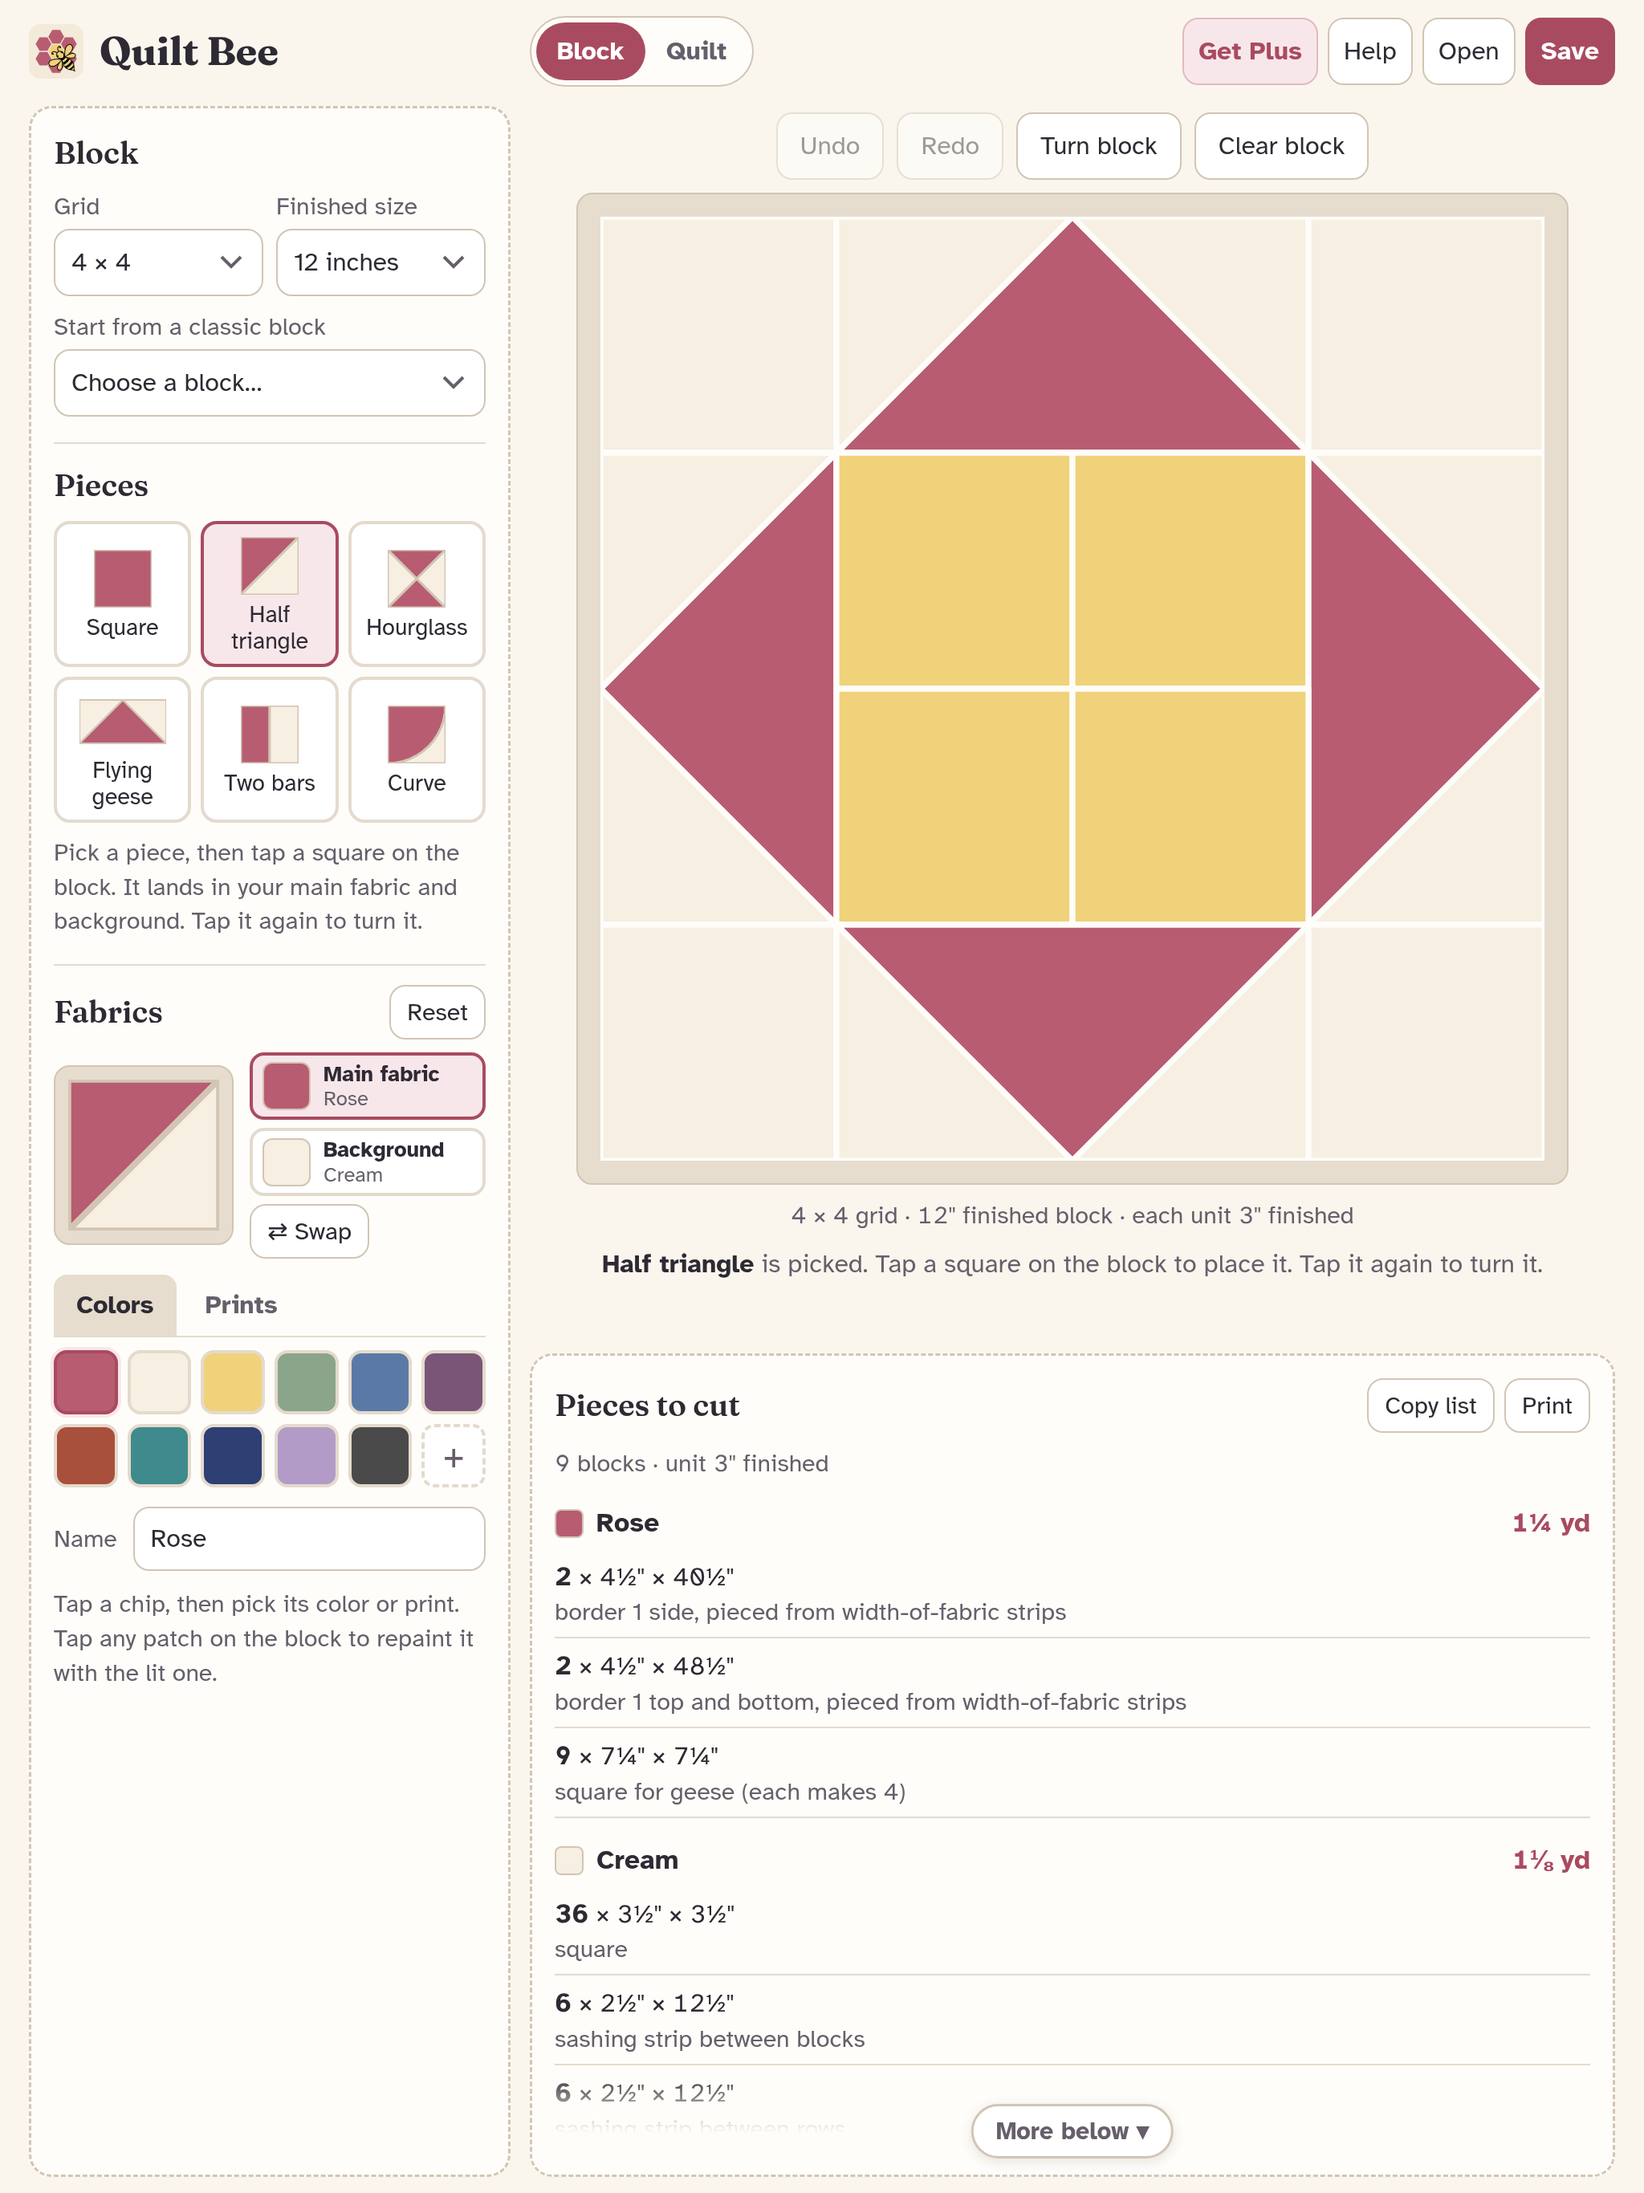
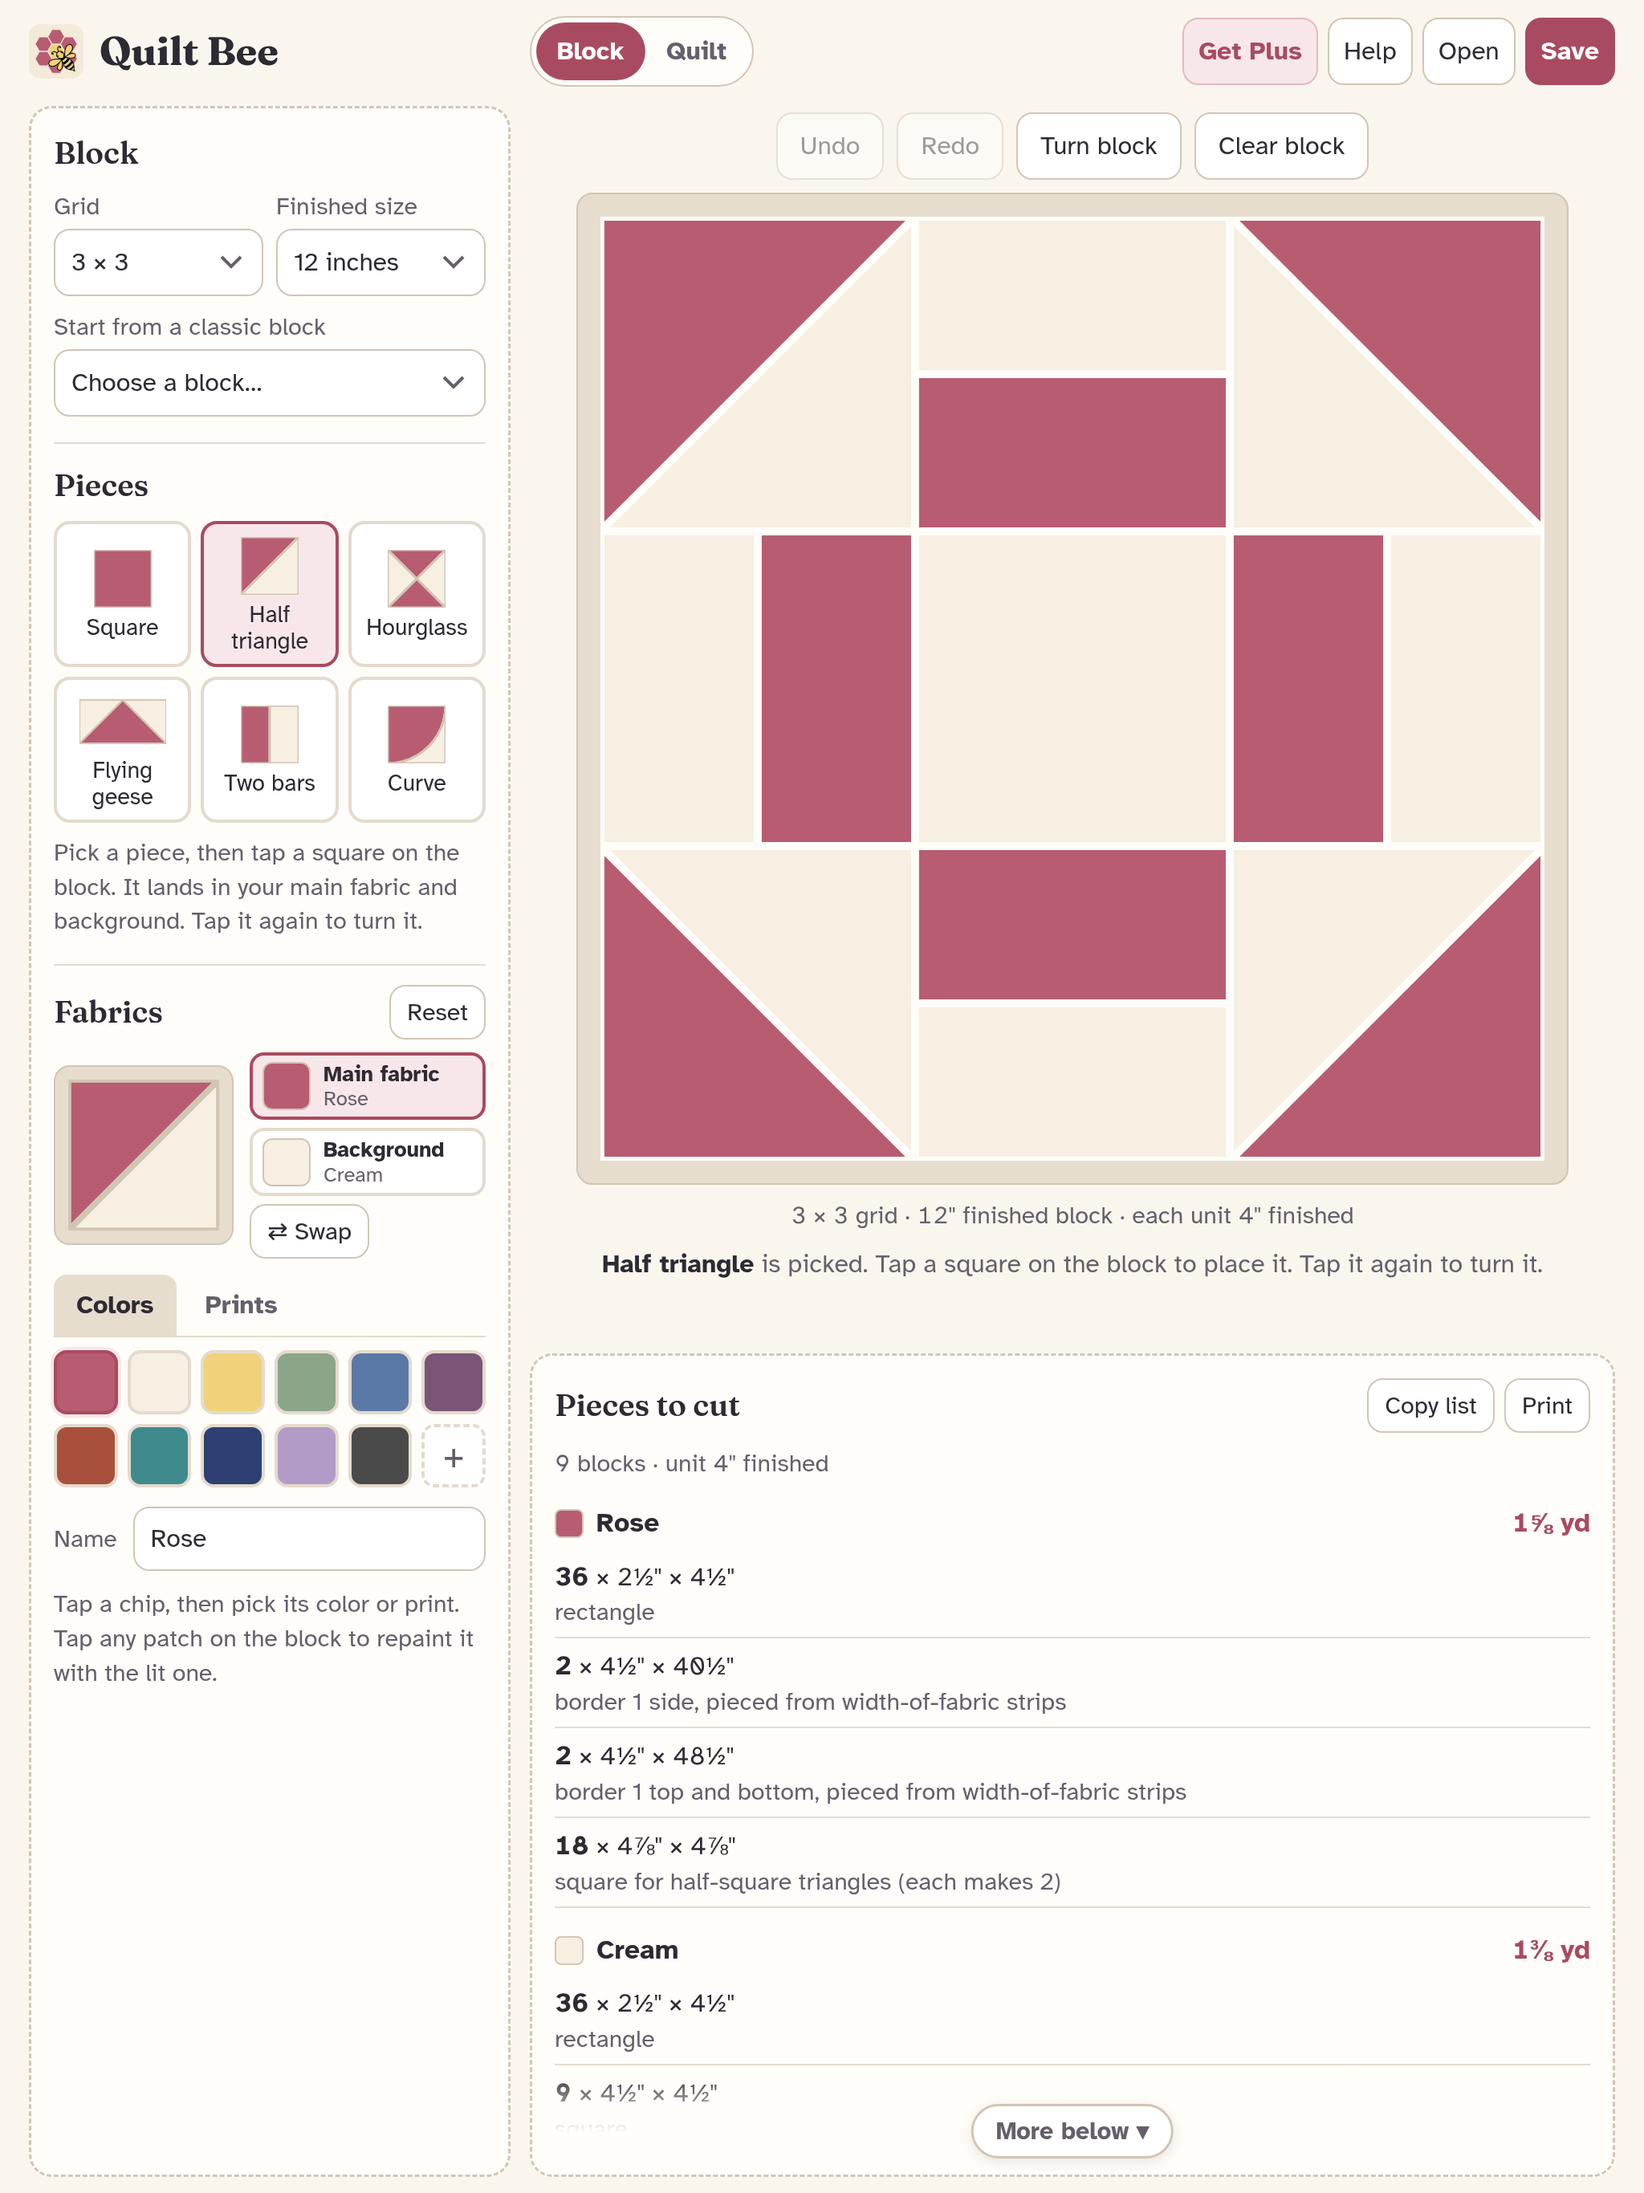
Screenshot hook takes a preset; third store screenshot shows a Churn Dash

diff --git a/docs/index.html b/docs/index.html
@@ -1002,7 +1002,7 @@ try { setView(localStorage.getItem('qb_view')||'block'); } catch(e){ setView('bl
 renderBadge();
 if (NATIVE){ document.querySelectorAll('#resetplus,#printbtn,#print2').forEach(b=>{ const p=b.closest('p'); (p||b).hidden=true; }); }
 const shot=new URLSearchParams(location.search).get('shot');
-if (shot){ try{ localStorage.setItem('qb_welcomed','1'); }catch(e){} const qp=new URLSearchParams(location.search); if (qp.get('rows')) S.quilt.rows=+qp.get('rows'); if (qp.get('cols')) S.quilt.cols=+qp.get('cols'); setView(shot); if (qp.get('plus')) setTimeout(openPlus,50); fitCanvases(); if (view==='quilt') renderQuilt(); }
+if (shot){ try{ localStorage.setItem('qb_welcomed','1'); }catch(e){} const qp=new URLSearchParams(location.search); if (qp.get('rows')) S.quilt.rows=+qp.get('rows'); if (qp.get('cols')) S.quilt.cols=+qp.get('cols'); setView(shot); if (qp.get('plus')) setTimeout(openPlus,50); if (qp.get('preset') && PRESETS[qp.get('preset')]){ PRESETS[qp.get('preset')](); $('grid').value=S.n; } fitCanvases(); if (view==='quilt') renderQuilt(); }
 else { try { if (localStorage.getItem('qb_welcomed')!=='1') showWelcome(); } catch(e){ showWelcome(); } }
 $('tip').innerHTML='<b>Half triangle</b> is picked. Tap a square on the block to place it. Tap it again to turn it.';
 render();
